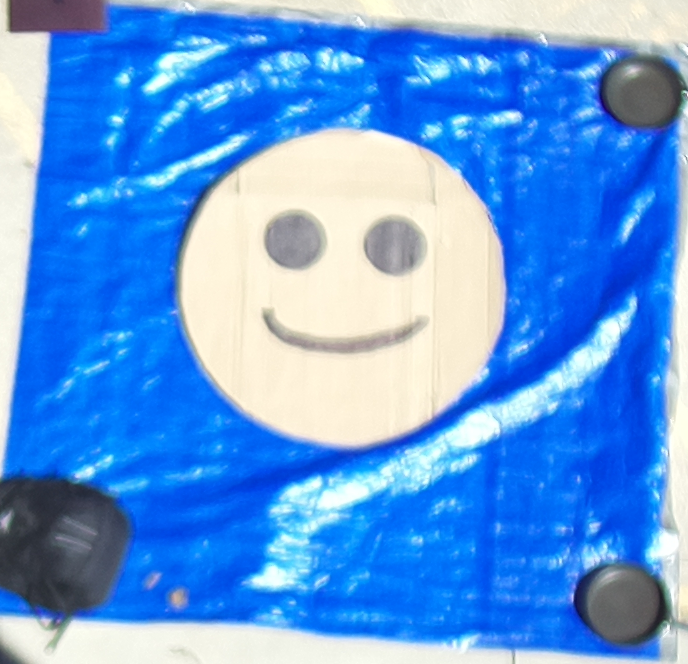
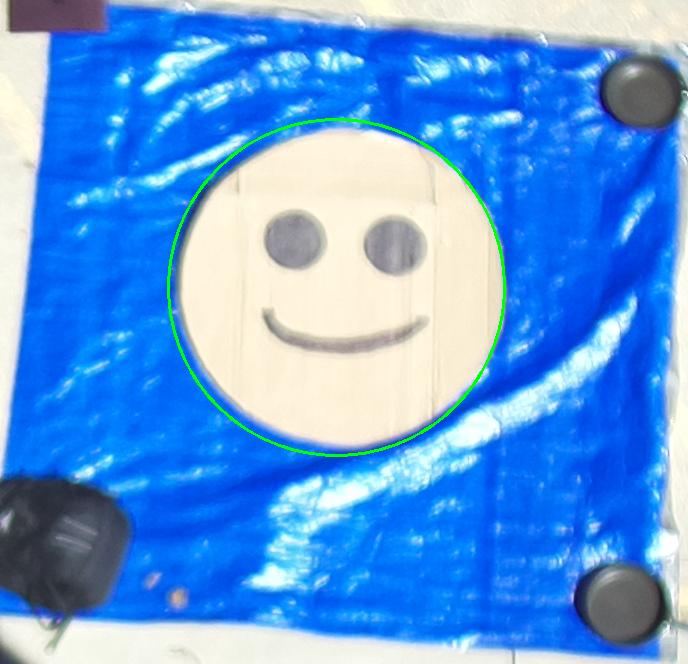
updated thresholding.py

diff --git a/Source_Files/COE_374/Development/thresholding.py b/Source_Files/COE_374/Development/thresholding.py
@@ -65,14 +65,16 @@ contours, hierarchy = cv2.findContours(thresh, cv2.RETR_TREE, cv2.CHAIN_APPROX_S
 
 c = max(contours, key=cv2.contourArea)
 
-#(x,y),radius = cv2.minEnclosingCircle(c)
-#center = (int(x),int(y))
-#radius = int(radius)
+(x,y),radius = cv2.minEnclosingCircle(c)
+center = (int(x),int(y))
+radius = int(radius)
 
 #cv2.circle(crop_img,center,radius,(0,255,0),2)
 
 x,y,w,h = cv2.boundingRect(c)
 face = crop_img[y:y+h, x:x+w]
+
+#cv2.imwrite("outputImages/circle.png", crop_img)
 
 cv2.imwrite("outputImages/face.png",face)
 
@@ -100,7 +102,7 @@ matches = bf.knnMatch(des1,des2,k=2)
 # Apply ratio test
 good = []
 for m,n in matches:
-    if m.distance < 0.75*n.distance:
+    if m.distance < 0.70*n.distance:
         good.append([m])
 
 # cv.drawMatchesKnn expects list of lists as matches.
